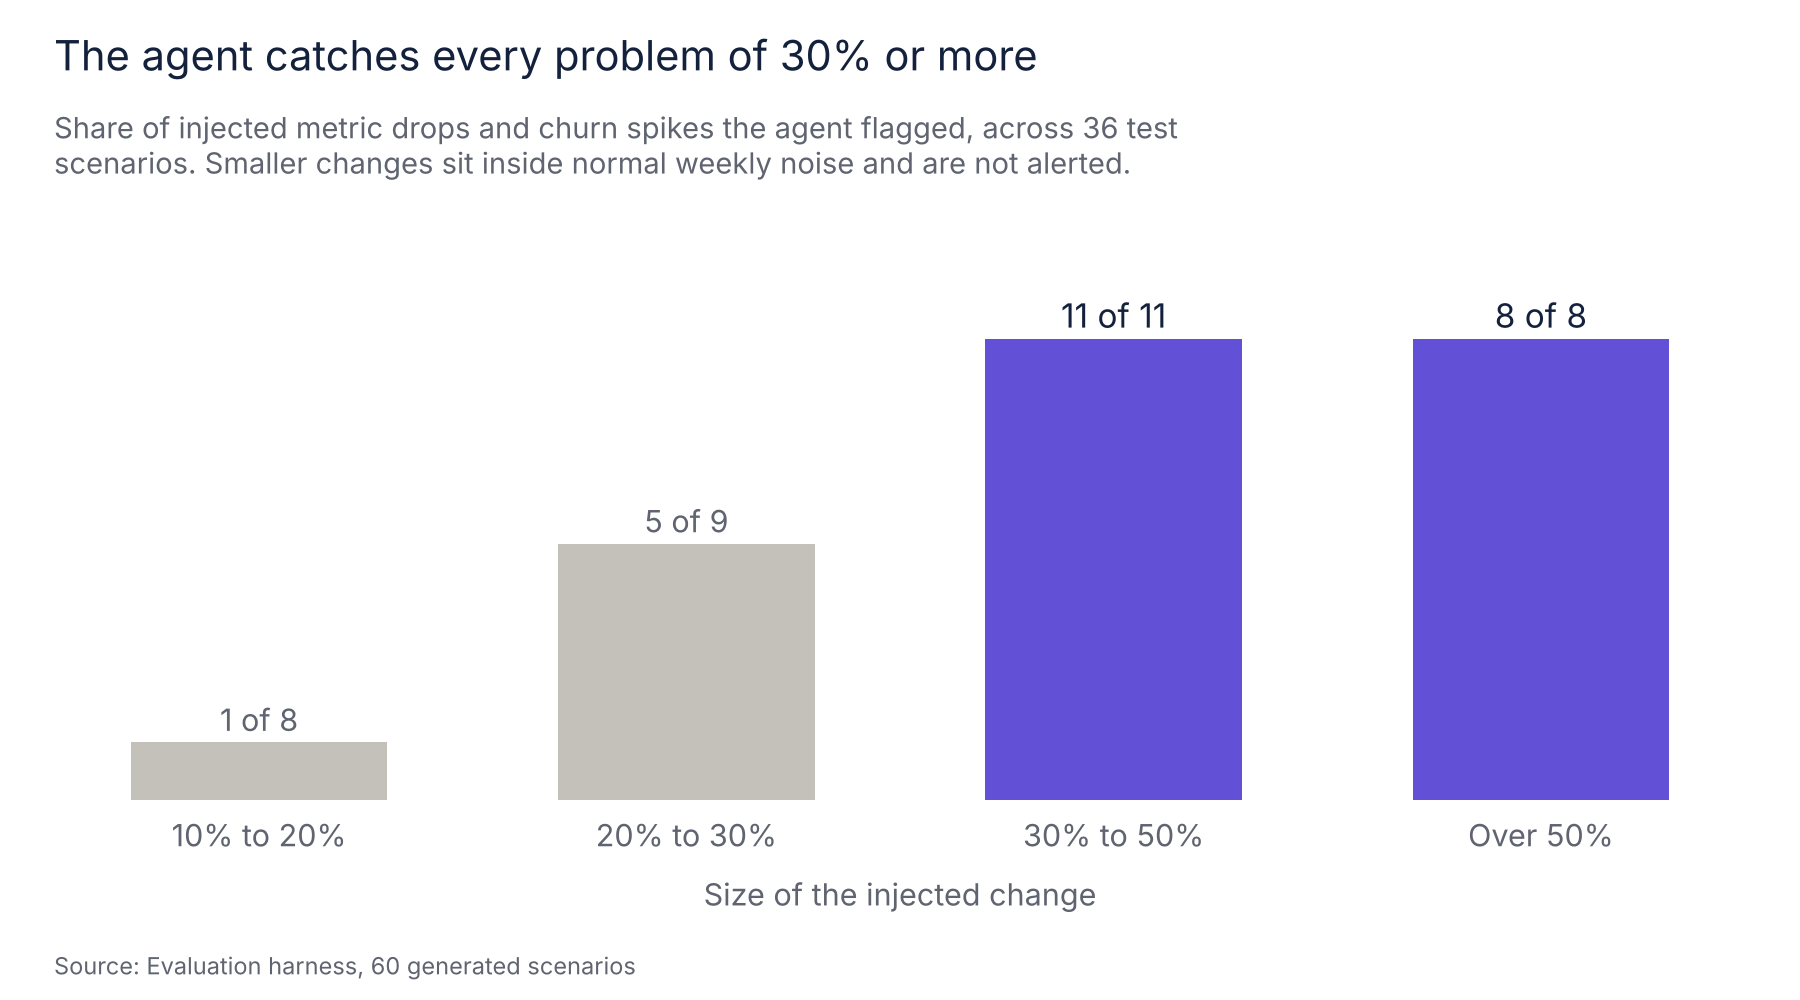
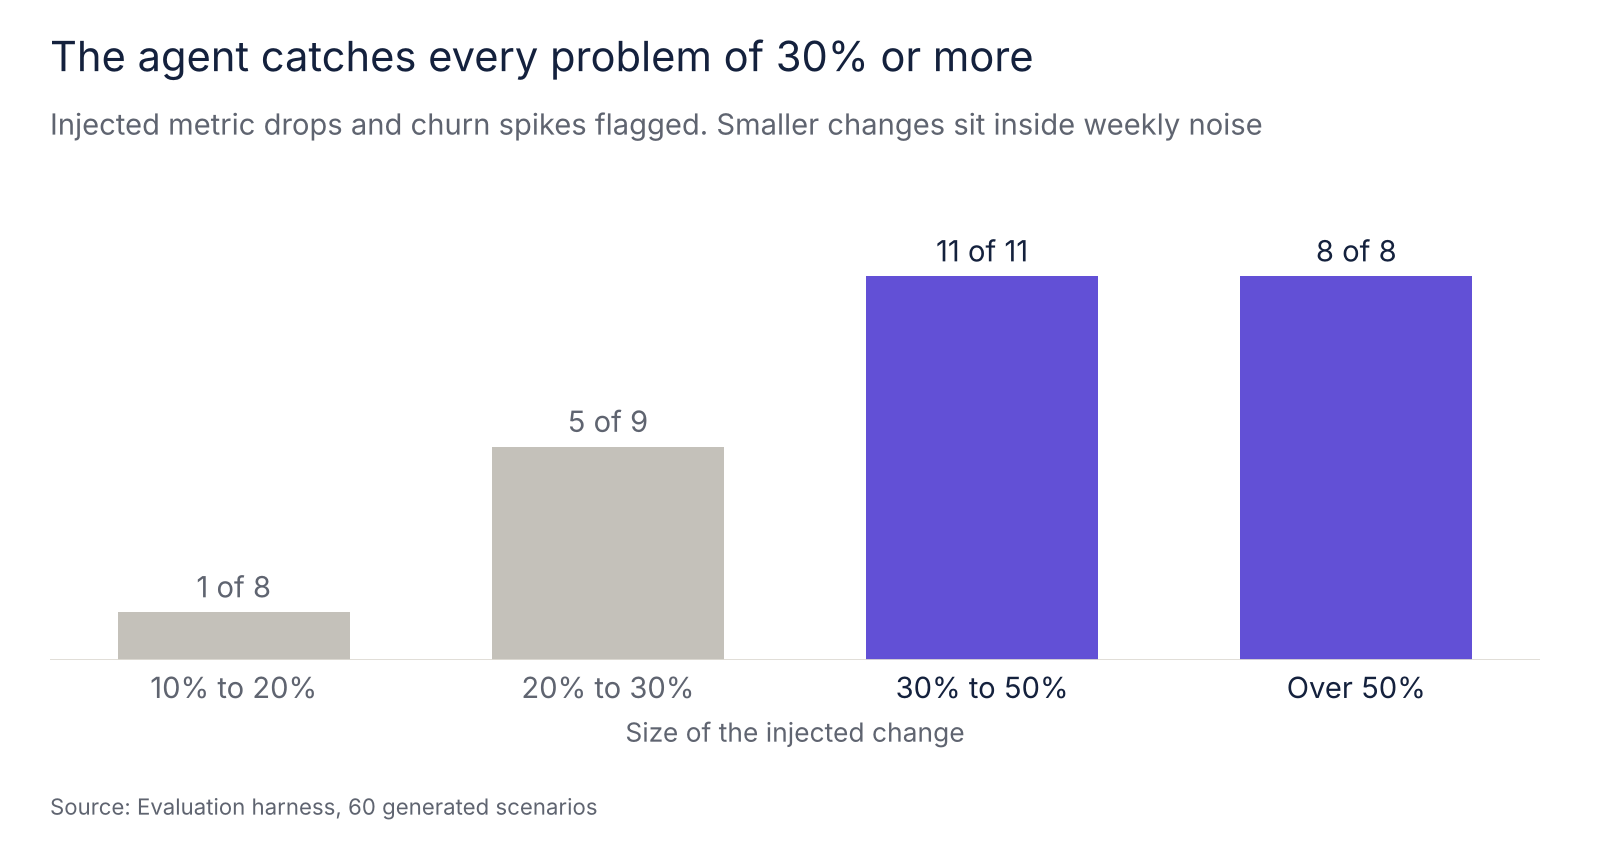
Cleaner chart: shared layout and shorter labels

diff --git a/scripts/brand_style.py b/scripts/brand_style.py
@@ -7,6 +7,7 @@ Colours are validated with the dataviz palette checks (lightness band, chroma, c
 """
 import matplotlib
 import matplotlib.pyplot as plt
+import matplotlib.ticker
 
 INK = "#14213d"        # navy: headlines, values, key labels
 MUTED = "#5f6470"      # deck, axis labels, source line (5.9:1 on white)
@@ -26,6 +27,8 @@ PROJECT = {
     "funnel-attribution-audit": "#b35900",
     "gtm-launch-playbook": "#d1495b",
     "crm-data-hygiene-audit": "#00819e",
+    "marketing-workflows": "#8a6a00",
+    "customer-value-emails": "#3d5a98",
 }
 
 matplotlib.rcParams.update({
@@ -78,6 +81,150 @@ def finish(fig, path, top=0.84, bottom=0.12, left=0.08, right=0.97):
     fig.subplots_adjust(top=top, bottom=bottom, left=left, right=right)
     fig.savefig(path, dpi=150, facecolor=SURFACE)
     plt.close(fig)
+
+
+# Standard chart layout, set in inches so every chart has the same margins whatever its height
+WIDTH = 8.0
+TITLE_IN, DECK_IN, PLOT_TOP_IN = 0.28, 0.62, 1.15   # distances from the top edge
+SOURCE_IN = 0.2                                      # distance from the bottom edge
+LEFT_IN = 0.25                                       # left edge for headline, deck and source
+VALUE = 10.5                                         # value and category label size
+
+
+def chart(height=4.5, label_in=1.6, xaxis=False, right_in=0.55):
+    """A figure with fixed margins. label_in is the room for category labels on the left;
+    xaxis reserves room under the plot: True for tick labels plus an axis title, "ticks" for tick labels only."""
+    fig = plt.figure(figsize=(WIDTH, height), dpi=200)
+    bottom_in = 0.8 if xaxis == "ticks" else 1.0 if xaxis else 0.55
+    left = (LEFT_IN + label_in) / WIDTH
+    ax = fig.add_axes([left, bottom_in / height, 1 - left - right_in / WIDTH,
+                       1 - (PLOT_TOP_IN + bottom_in) / height])
+    for side in ["top", "right", "left", "bottom"]:
+        ax.spines[side].set_visible(False)
+    ax.tick_params(length=0, labelsize=VALUE, colors=MUTED)
+    fig._h = height
+    return fig, ax
+
+
+def titles(fig, title, deck=None):
+    h = fig._h
+    fig.text(LEFT_IN / WIDTH, 1 - TITLE_IN / h, title, fontsize=15, color=INK, ha="left", va="center")
+    if deck:
+        fig.text(LEFT_IN / WIDTH, 1 - DECK_IN / h, deck, fontsize=10.5, color=MUTED, ha="left", va="center")
+
+
+def credit(fig, text):
+    fig.text(LEFT_IN / WIDTH, SOURCE_IN / fig._h, f"Source: {text}", fontsize=8, color=MUTED, ha="left",
+             va="bottom")
+
+
+def save(fig, path):
+    fig.savefig(path, dpi=200, facecolor=SURFACE)
+    plt.close(fig)
+
+
+def hbar(ax, labels, values, highlight, fmt, color, xmax=None):
+    """Horizontal bars, first item at the top. highlight: set of indexes drawn in the project colour."""
+    n = len(values)
+    ys = list(range(n))[::-1]
+    lo = min(0, min(values))
+    hi = xmax or max(values)
+    span = hi - lo
+    for y, v, i in zip(ys, values, range(n)):
+        c = color if i in highlight else CONTEXT
+        ax.barh(y, v, height=0.62, color=c, linewidth=0)
+        small_neg = v < 0 and abs(v) < span * 0.05   # label a tiny negative on the right, like the rest
+        ha, x = ("left", max(v, 0) + span * 0.015) if v >= 0 or small_neg else ("right", v - span * 0.015)
+        ax.text(x, y, fmt[i] if isinstance(fmt, list) else fmt(v), va="center", ha=ha, fontsize=VALUE, color=INK if i in highlight else MUTED)
+    ax.set_yticks(ys)
+    ax.set_yticklabels(labels)
+    for i, t in enumerate(ax.get_yticklabels()):
+        t.set_color(INK if i in highlight else MUTED)
+    ax.set_ylim(-0.6, n - 0.4)
+    big_neg = lo < -span * 0.05
+    ax.set_xlim(lo - span * 0.16 if big_neg else min(lo, 0), hi + span * 0.16)
+    ax.set_xticks([])
+    ax.axvline(0, color=HAIRLINE, linewidth=1)
+    return ax
+
+
+def vbar(ax, labels, values, highlight, fmt, color, ymax=None):
+    """Vertical bars with values on top and categories underneath."""
+    xs = range(len(values))
+    hi = ymax or max(values)
+    for x, v, i in zip(xs, values, range(len(values))):
+        c = color if i in highlight else CONTEXT
+        ax.bar(x, v, width=0.62, color=c, linewidth=0)
+        ax.text(x, v + hi * 0.02, fmt[i] if isinstance(fmt, list) else fmt(v), ha="center", va="bottom", fontsize=VALUE,
+                color=INK if i in highlight else MUTED)
+    ax.set_xticks(list(xs))
+    ax.set_xticklabels(labels)
+    for i, t in enumerate(ax.get_xticklabels()):
+        t.set_color(INK if i in highlight else MUTED)
+    ax.set_yticks([])
+    ax.set_ylim(0, hi * 1.12)
+    ax.axhline(0, color=HAIRLINE, linewidth=1)
+    return ax
+
+
+def dotrange(ax, labels, est, lo, hi, highlight, fmt, color, xlim=None, zero=True):
+    """Estimate with its interval: a dot on a range line, first item at the top."""
+    n = len(est)
+    ys = list(range(n))[::-1]
+    for y, e, a, b_, i in zip(ys, est, lo, hi, range(n)):
+        c = color if i in highlight else CONTEXT
+        ax.plot([a, b_], [y, y], color=c, linewidth=2.4, solid_capstyle="round")
+        ax.scatter([e], [y], s=80, color=c, zorder=3, linewidths=0)
+        ax.text(e, y + 0.26, fmt(e), ha="center", va="bottom", fontsize=VALUE,
+                color=INK if i in highlight else MUTED)
+    ax.set_yticks(ys)
+    ax.set_yticklabels(labels)
+    for i, t in enumerate(ax.get_yticklabels()):
+        t.set_color(INK if i in highlight else MUTED)
+    ax.set_ylim(-0.6, n - 0.2)
+    if xlim:
+        ax.set_xlim(*xlim)
+    ax.set_xticks([])
+    if zero:
+        ax.axvline(0, color=HAIRLINE, linewidth=1)
+        ax.text(0, -0.55, "0", ha="center", va="top", fontsize=9, color=MUTED)
+    return ax
+
+
+def paired_hbar(ax, labels, before, after, highlight, fmt, color, names=("Before", "After")):
+    """Two thin bars per row: before in grey, after in the project colour (grey too unless highlighted)."""
+    n = len(labels)
+    ys = list(range(n))[::-1]
+    hi = max(max(before), max(after))
+    for y, a, b_, i in zip(ys, before, after, range(n)):
+        ca = color
+        ax.barh(y + 0.17, a, height=0.3, color=CONTEXT, linewidth=0)
+        ax.barh(y - 0.17, b_, height=0.3, color=ca, linewidth=0)
+        ax.text(a + hi * 0.015, y + 0.17, fmt(a), va="center", fontsize=9.5, color=MUTED)
+        ax.text(b_ + hi * 0.015, y - 0.17, fmt(b_), va="center", fontsize=VALUE,
+                color=INK if i in highlight else MUTED)
+    top = ys[0]
+    ax.text(hi * 1.22, top + 0.17, names[0], va="center", fontsize=9, color=MUTED)
+    ax.text(hi * 1.22, top - 0.17, names[1], va="center", fontsize=9, color=color)
+    ax.set_yticks(ys)
+    ax.set_yticklabels(labels)
+    for i, t in enumerate(ax.get_yticklabels()):
+        t.set_color(INK if i in highlight else MUTED)
+    ax.set_ylim(-0.6, n - 0.4)
+    ax.set_xlim(0, hi * 1.42)
+    ax.set_xticks([])
+    ax.axvline(0, color=HAIRLINE, linewidth=1)
+    return ax
+
+
+def line_axes(ax, xaxis=True, yfmt=None):
+    """Line charts: keep a bottom baseline and light y tick labels, no gridlines."""
+    if xaxis:
+        ax.spines["bottom"].set_visible(True)
+        ax.spines["bottom"].set_color(HAIRLINE)
+    if yfmt:
+        ax.yaxis.set_major_formatter(matplotlib.ticker.FuncFormatter(lambda v, _: yfmt(v)))
+    return ax
 
 
 STREAMLIT_THEME = """[theme]

diff --git a/scripts/make_charts.py b/scripts/make_charts.py
@@ -11,29 +11,15 @@ import brand_style as b
 ROOT = Path(__file__).resolve().parents[1]
 RES, OUT = ROOT / "results", ROOT / "charts"
 OUT.mkdir(exist_ok=True)
-SURFACE, INK, INK2 = "#ffffff", b.INK, b.MUTED
-HIGHLIGHT, CONTEXT = b.PROJECT["business-review-agent"], b.CONTEXT
-plt.rcParams.update({"font.family": "sans-serif", "font.size": 11, "text.color": INK,
-                     "figure.facecolor": SURFACE, "axes.facecolor": SURFACE})
-
+HL = b.PROJECT["business-review-agent"]
 d = pd.read_csv(RES / "detection_by_size.csv")
-hi = d["size"].isin(["30% to 50%", "Over 50%"])
-fig, ax = plt.subplots(figsize=(9, 5.0))
-ax.bar(d["size"], d["detection_rate"] * 100, width=0.6, color=[HIGHLIGHT if h else CONTEXT for h in hi])
-for x, (rate, c, n, h) in enumerate(zip(d["detection_rate"], d["caught"], d["scenarios"], hi)):
-    ax.text(x, rate * 100 + 2.5, f"{c} of {n}", ha="center", fontsize=12 if h else 11, color=INK if h else INK2)
-for s in ax.spines.values():
-    s.set_visible(False)
-ax.set_yticks([])
-ax.set_ylim(0, 115)
-ax.tick_params(axis="x", length=0, pad=6, labelsize=11)
-ax.set_xlabel("Size of the injected change", color=INK2, labelpad=8)
-fig.text(0.03, 0.97, "The agent catches every problem of 30% or more", fontsize=15, va="top")
-fig.text(0.03, 0.89, "Share of injected metric drops and churn spikes the agent flagged, across 36 test\n"
-         "scenarios. Smaller changes sit inside normal weekly noise and are not alerted.",
-         fontsize=10.5, color=INK2, va="top")
-fig.subplots_adjust(left=0.03, right=0.97, top=0.73, bottom=0.2)
-b.source(fig, "Evaluation harness, 60 generated scenarios")
-fig.savefig(OUT / "01_detection_by_size.png", dpi=200)
-plt.close(fig)
+fig, ax = b.chart(height=4.3, label_in=0.0, xaxis=True, right_in=0.3)
+b.vbar(ax, d["size"].tolist(), (d.detection_rate * 100).tolist(),
+       {i for i, s_ in enumerate(d["size"]) if s_ in ("30% to 50%", "Over 50%")},
+       [f"{c} of {n}" for c, n in zip(d.caught, d.scenarios)], HL, ymax=100)
+ax.set_xlabel("Size of the injected change", color=b.MUTED, fontsize=9.5)
+b.titles(fig, "The agent catches every problem of 30% or more",
+         "Injected metric drops and churn spikes flagged. Smaller changes sit inside weekly noise")
+b.credit(fig, "Evaluation harness, 60 generated scenarios")
+b.save(fig, OUT / "01_detection_by_size.png")
 print("Chart saved to charts/")
